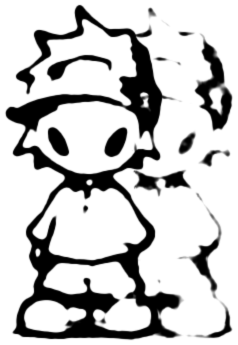
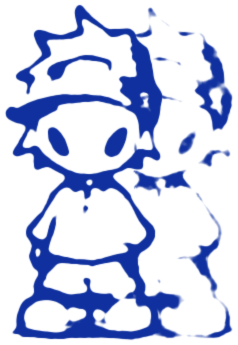
Home: IBM AI Security Command Center (work in progress); drop Case study labels; blue header mascot

diff --git a/index.html b/index.html
@@ -25,7 +25,7 @@
        before anything paints. js/main.js "Opening intro" plays it and takes it away.
        ?intro=1 forces it; skipped for reduced motion. -->
   <script>document.documentElement.classList.add("js");try{if((/[?&]intro=(1|hold)/.test(location.search)||!sessionStorage.getItem("atony:intro"))&&!matchMedia("(prefers-reduced-motion: reduce)").matches)document.documentElement.classList.add("is-intro")}catch(e){}</script>
-  <link rel="stylesheet" href="css/style.css?v=x255" />
+  <link rel="stylesheet" href="css/style.css?v=x256" />
 </head>
 <body>
   <!-- ============ NAV ============ -->
@@ -56,7 +56,7 @@
         </div>
 
         <div class="hero__sumi-wrap">
-          <img class="hero__sumi" data-mascot src="assets/graphics/sumi/sumi-duo.webp" alt="Sumi, Anthony's mascot, standing in black ink with a faded double of himself behind" width="238" height="345" />
+          <img class="hero__sumi" data-mascot src="assets/graphics/sumi/sumi-duo.webp" alt="Sumi, Anthony's mascot, standing in blue ink with a faded double of himself behind" width="238" height="345" />
           <span class="hero__sumi-bubble">psst, try typing "music" ✦</span>
         </div>
 
@@ -92,7 +92,6 @@
                 <span class="wthumb__pop wp--3" aria-hidden="true"><svg width="22" height="22" viewBox="0 0 24 24" fill="none"><path d="M12 2.5l2.3 6.1 6.2 2.4-6.2 2.4L12 21.5l-2.3-8.1L3.5 11l6.2-2.4z" fill="#ffd166"/></svg></span>
                 <img class="wthumb__base wthumb__base--map" src="assets/graphics/thumbs/vendrs/events-map.webp" alt="Vendrs case study cover: the Events Map, a list of nearby events beside a map with pins" width="1200" height="922" loading="lazy" decoding="async" />
               </span>
-              <span class="wthumb__tag">Case study</span>
               <span class="wcard__go"><svg viewBox="0 0 24 24" fill="none" stroke="currentColor" stroke-width="2" stroke-linecap="round" stroke-linejoin="round"><path d="M7 17 17 7M8 7h9v9"/></svg></span>
             </span>
             <span class="wcard__foot">
@@ -127,7 +126,6 @@
                 <span class="wthumb__pop wp--3" aria-hidden="true"><svg width="22" height="22" viewBox="0 0 24 24" fill="none"><path d="M12 2.5l2.3 6.1 6.2 2.4-6.2 2.4L12 21.5l-2.3-8.1L3.5 11l6.2-2.4z" fill="#e879b8"/></svg></span>
                 <img class="wthumb__base" src="assets/graphics/thumbs/qac/events.webp" alt="QAC Gallery case study cover: the events and bookings page" width="1200" height="675" loading="lazy" decoding="async" />
               </span>
-              <span class="wthumb__tag">Case study</span>
               <span class="wcard__soon" aria-hidden="true"><b>Coming soon</b></span>
               <span class="wcard__go"><svg viewBox="0 0 24 24" fill="none" stroke="currentColor" stroke-width="2" stroke-linecap="round" stroke-linejoin="round"><path d="M7 17 17 7M8 7h9v9"/></svg></span>
             </span>
@@ -138,6 +136,31 @@
               </span>
               <span class="wcard__pills">
               <span class="wcard__pill" data-drawably="pill">B2C</span>
+              <span class="wcard__pill" data-drawably="pill">Desktop</span>
+              <span class="wcard__pill" data-drawably="pill">Client</span>
+              </span>
+            </span>
+          </span>
+        </div>
+
+        <div class="wcard wcard--soon" data-cursor="Work in progress" tabindex="0" role="group" aria-disabled="true" aria-label="IBM AI Security Command Center, work in progress">
+          <span class="wcard__paper">
+            <span class="wcard__tape" aria-hidden="true"></span>
+            <!-- work in progress: IBM's animated logo on a dark Carbon-style grid
+                 (".wthumb--ibm" in css/style.css). No page yet. -->
+            <span class="wcard__frame">
+              <span class="wthumb wthumb--ibm">
+                <img class="ibm-logo" src="assets/graphics/thumbs/ibm/ibm-logo.webp" alt="IBM logo" width="252" height="94" loading="lazy" decoding="async" />
+              </span>
+              <span class="wcard__soon" aria-hidden="true"><b>Work in progress</b></span>
+            </span>
+            <span class="wcard__foot">
+              <span class="wcard__text">
+                <h3 class="wcard__title">IBM AI Security Command Center</h3>
+                <span class="wcard__desc">A concept security dashboard for IBM that helps analysts catch and respond to threats faster.</span>
+              </span>
+              <span class="wcard__pills">
+              <span class="wcard__pill" data-drawably="pill">B2B</span>
               <span class="wcard__pill" data-drawably="pill">Desktop</span>
               <span class="wcard__pill" data-drawably="pill">Client</span>
               </span>
@@ -182,6 +205,6 @@
   </footer>
 
   <script src="assets/vendor/drawably/drawably.classic.js?v=0.4.2"></script>
-  <script src="js/main.js?v=x255"></script>
+  <script src="js/main.js?v=x256"></script>
 </body>
 </html>

diff --git a/css/style.css b/css/style.css
@@ -1752,6 +1752,21 @@ body.is-leaving { opacity: 0; transition: opacity .28s ease; }
 .wcard__soon b { padding: 10px 20px; border-radius: var(--r-pill); background: var(--ink); color: #fff; font-size: 14px; font-weight: 500; letter-spacing: .02em; }
 .wcard--soon:hover .wcard__soon, .wcard--soon:focus-visible .wcard__soon { opacity: 1; }
 
+/* ---- IBM AI Security Command Center (work in progress, 2026-11-23) ----
+   IBM's animated logo (from Anthony's IBM Logo.webm, turned into an animated WebP
+   on the same #161616 so it works in Safari too) centred on a dark Carbon-style
+   2x grid. */
+.wthumb--ibm { display: grid; place-items: center; background-color: #161616;
+  background-image: linear-gradient(rgba(255,255,255,.055) 1px, transparent 1px),
+                    linear-gradient(90deg, rgba(255,255,255,.055) 1px, transparent 1px);
+  background-size: 32px 32px; background-position: center; }
+.ibm-logo { position: relative; z-index: 1; width: 34%; height: auto; mix-blend-mode: lighten;
+  transition: transform .6s var(--ease-back); }
+.wcard:hover .ibm-logo, .wcard:focus-visible .ibm-logo { transform: scale(1.06); }
+/* the light "Work in progress" veil turns the dark grid a muddy grey; a dark one keeps it IBM */
+.wthumb--ibm ~ .wcard__soon { background: rgba(22, 22, 22, .45); }
+.wthumb--ibm ~ .wcard__soon b { background: #fff; color: #161616; }
+
 /* ---- QAC Gallery ----
    White ground with the gallery's paint splatters bleeding in from the edges,
    matching their membership sign-in page. The splatters are not drawn: they are

diff --git a/work/vendrs.html b/work/vendrs.html
@@ -24,7 +24,7 @@
        before anything paints. js/main.js "Opening intro" plays it and takes it away.
        ?intro=1 forces it; skipped for reduced motion. -->
   <script>document.documentElement.classList.add("js");try{if((/[?&]intro=(1|hold)/.test(location.search)||!sessionStorage.getItem("atony:intro"))&&!matchMedia("(prefers-reduced-motion: reduce)").matches)document.documentElement.classList.add("is-intro")}catch(e){}</script>
-  <link rel="stylesheet" href="../css/style.css?v=x255" />
+  <link rel="stylesheet" href="../css/style.css?v=x256" />
 </head>
 <body>
   <div class="nav-outer">
@@ -95,7 +95,6 @@
             <span class="wthumb__pop wp--3" aria-hidden="true"><svg width="22" height="22" viewBox="0 0 24 24" fill="none"><path d="M12 2.5l2.3 6.1 6.2 2.4-6.2 2.4L12 21.5l-2.3-8.1L3.5 11l6.2-2.4z" fill="#ffd166"/></svg></span>
             <img class="wthumb__base wthumb__base--map" src="../assets/graphics/thumbs/vendrs/events-map.webp" alt="Vendrs Events Map: a list of nearby events beside a map with pins" width="1200" height="922" />
           </span>
-          <span class="wthumb__tag">Case study</span>
         </span>
       </div>
     </section>
@@ -398,6 +397,6 @@
     <img class="v-lightbox__img" src="" alt="" loading="lazy" decoding="async" />
   </div>
 
-  <script src="../js/main.js?v=x255"></script>
+  <script src="../js/main.js?v=x256"></script>
 </body>
 </html>

diff --git a/about.html b/about.html
@@ -25,7 +25,7 @@
        before anything paints. js/main.js "Opening intro" plays it and takes it away.
        ?intro=1 forces it; skipped for reduced motion. -->
   <script>document.documentElement.classList.add("js");try{if((/[?&]intro=(1|hold)/.test(location.search)||!sessionStorage.getItem("atony:intro"))&&!matchMedia("(prefers-reduced-motion: reduce)").matches)document.documentElement.classList.add("is-intro")}catch(e){}</script>
-  <link rel="stylesheet" href="css/style.css?v=x255" />
+  <link rel="stylesheet" href="css/style.css?v=x256" />
 </head>
 <body>
   <!-- ============ NAV ============ -->
@@ -243,6 +243,6 @@
   <!-- GSAP + ScrollTrigger: only the About page uses them (the scroll scene) -->
   <script src="https://cdnjs.cloudflare.com/ajax/libs/gsap/3.13.0/gsap.min.js"></script>
   <script src="https://cdnjs.cloudflare.com/ajax/libs/gsap/3.13.0/ScrollTrigger.min.js"></script>
-  <script src="js/main.js?v=x255"></script>
+  <script src="js/main.js?v=x256"></script>
 </body>
 </html>

diff --git a/studio.html b/studio.html
@@ -25,7 +25,7 @@
        before anything paints. js/main.js "Opening intro" plays it and takes it away.
        ?intro=1 forces it; skipped for reduced motion. -->
   <script>document.documentElement.classList.add("js");try{if((/[?&]intro=(1|hold)/.test(location.search)||!sessionStorage.getItem("atony:intro"))&&!matchMedia("(prefers-reduced-motion: reduce)").matches)document.documentElement.classList.add("is-intro")}catch(e){}</script>
-  <link rel="stylesheet" href="css/style.css?v=x255" />
+  <link rel="stylesheet" href="css/style.css?v=x256" />
 </head>
 <body>
   <!-- ============ NAV ============ -->
@@ -210,6 +210,6 @@
   </footer>
 
   <script src="assets/vendor/drawably/drawably.classic.js?v=0.4.2"></script>
-  <script src="js/main.js?v=x255"></script>
+  <script src="js/main.js?v=x256"></script>
 </body>
 </html>

diff --git a/music.html b/music.html
@@ -26,7 +26,7 @@
        before anything paints. js/main.js "Opening intro" plays it and takes it away.
        ?intro=1 forces it; skipped for reduced motion. -->
   <script>document.documentElement.classList.add("js");try{if((/[?&]intro=(1|hold)/.test(location.search)||!sessionStorage.getItem("atony:intro"))&&!matchMedia("(prefers-reduced-motion: reduce)").matches)document.documentElement.classList.add("is-intro")}catch(e){}</script>
-  <link rel="stylesheet" href="css/style.css?v=x255" />
+  <link rel="stylesheet" href="css/style.css?v=x256" />
 </head>
 <body class="is-music">
 
@@ -187,6 +187,6 @@
   </footer>
 
   <script src="assets/vendor/drawably/drawably.classic.js?v=0.4.2"></script>
-  <script src="js/main.js?v=x255"></script>
+  <script src="js/main.js?v=x256"></script>
 </body>
 </html>

diff --git a/work/qac-gallery.html b/work/qac-gallery.html
@@ -24,7 +24,7 @@
        before anything paints. js/main.js "Opening intro" plays it and takes it away.
        ?intro=1 forces it; skipped for reduced motion. -->
   <script>document.documentElement.classList.add("js");try{if((/[?&]intro=(1|hold)/.test(location.search)||!sessionStorage.getItem("atony:intro"))&&!matchMedia("(prefers-reduced-motion: reduce)").matches)document.documentElement.classList.add("is-intro")}catch(e){}</script>
-  <link rel="stylesheet" href="../css/style.css?v=x255" />
+  <link rel="stylesheet" href="../css/style.css?v=x256" />
 </head>
 <body>
   <div class="nav-outer nav-outer--case">
@@ -226,6 +226,6 @@
     </div>
   </footer>
 
-  <script src="../js/main.js?v=x255"></script>
+  <script src="../js/main.js?v=x256"></script>
 </body>
 </html>

diff --git a/HANDOFF.md b/HANDOFF.md
@@ -1997,3 +1997,8 @@ The site-wide noise overlay (body::after SVG feTurbulence tile) is gone, at Anth
 
 ## 2026-11-23: New header mascot (home)
 The home hero Sumi is now assets/graphics/sumi/sumi-duo.webp (black ink Sumi with a faded double behind, transparent, 238x345 lossless, cropped to the drawing with a 4px pad), replacing sketching.webp (left in place, unused). Same size and draw-in/wiggle/bubble/easter eggs. The baseline offset in .hero__sumi-wrap uses 0.017 for the new 4px strip. Cache token x255.
+
+## 2026-11-23: IBM card (work in progress), no "Case study" labels, blue header mascot
+- New third card on the home Works grid: "IBM AI Security Command Center", desc "A concept security dashboard for IBM that helps analysts catch and respond to threats faster.", pills B2B / Desktop / Client. It is a `.wcard--soon` (no link, no page yet) with "Work in progress" on hover (dark veil for this card). Thumbnail `.wthumb--ibm`: IBM's animated logo on a dark #161616 Carbon-style 32px grid. The logo came from ~/Downloads/IBM Logo.webm (150x150, transparent VP9); Safari can't play transparent WebM, so its frames were captured in Chrome and saved as an animated WebP on the same #161616 (assets/graphics/thumbs/ibm/ibm-logo.webp, 252x94, 66 frames, 3s loop, ~50KB), blended with mix-blend-mode: lighten so the grid shows through. It sits alone on row 2 of the 2-column grid; the pile-and-separate reveal still only involves cards 1 and 2.
+- The "Case study" pill (`.wthumb__tag`) is removed from every card (home and the Vendrs page). The CSS is left unused.
+- Header mascot sumi-duo.webp recoloured to the site's Sumi blue rgb(15,48,158) (same alpha). Cache token x256.
